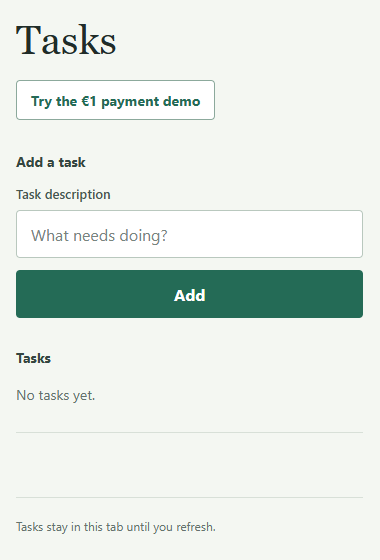
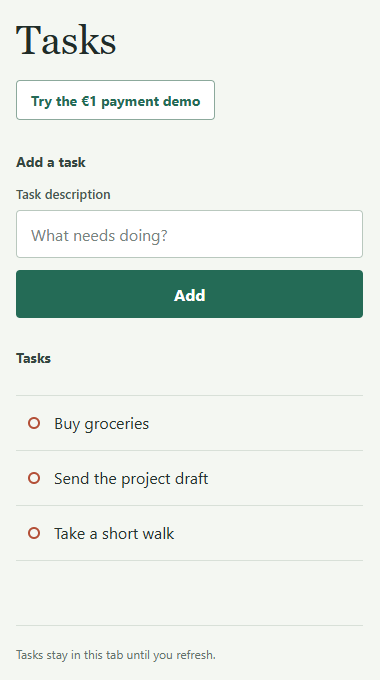
docs: refresh task-list README screenshot

diff --git a/README.md b/README.md
@@ -38,7 +38,7 @@ processing and Google Pay API integration are explicitly out of scope.
 
 **Task list**
 
-![To-Do application with the task form and empty task list](screenshots/task-list.png)
+![To-Do application with the task form and example tasks](screenshots/task-list.png)
 
 **Simulated payment popup**
 
